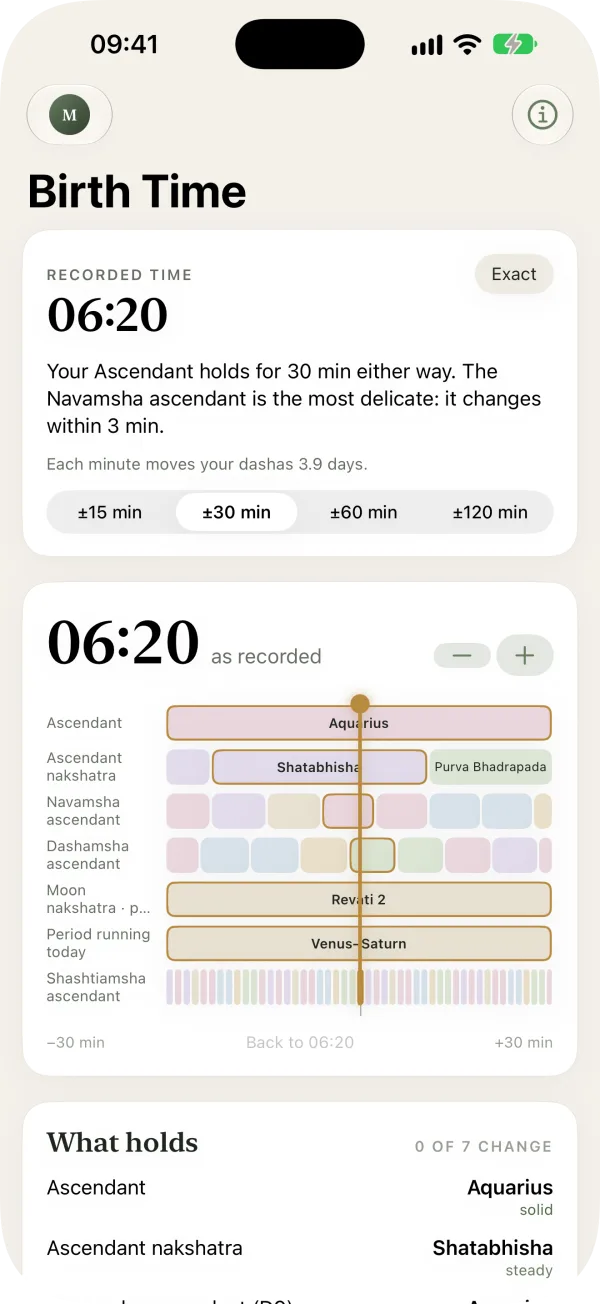
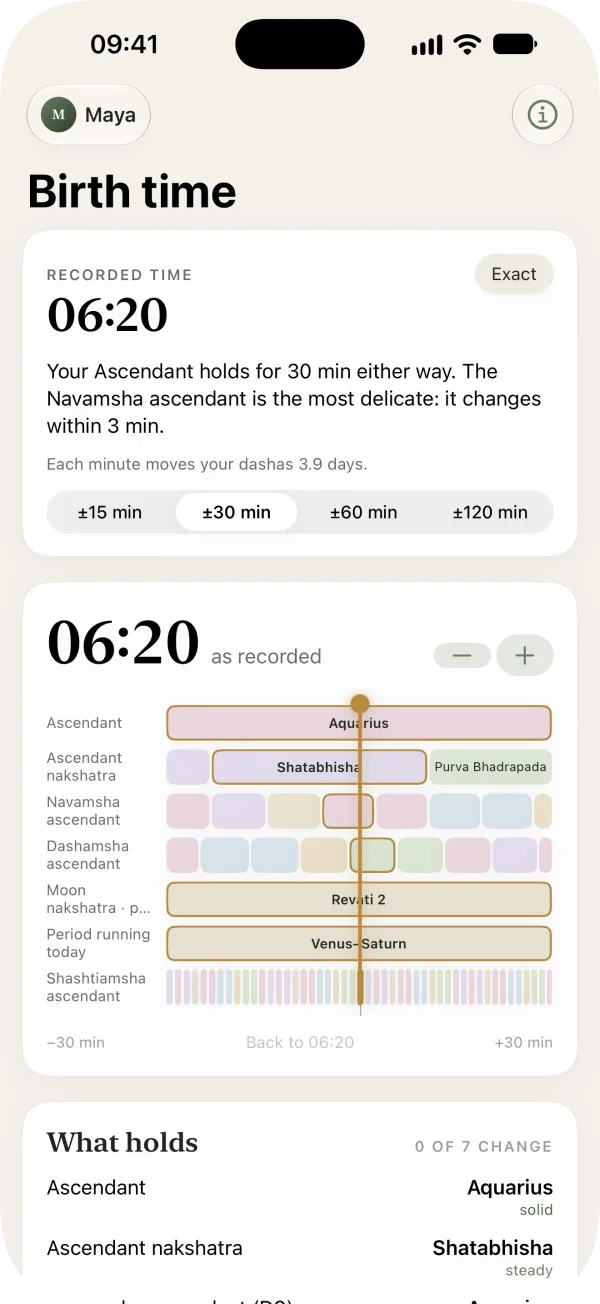
Astral Journey: 3.3 names (Calendar, Chart, Strength, Compare charts) and fresh screenshots

Changed region(s): [[0.24, 0.1227, 0.42, 0.184], [0.06, 0.0613, 0.21, 0.1227], [0.81, 0.0, 0.9, 0.0613]]

diff --git a/astral/index.html b/astral/index.html
@@ -53,23 +53,23 @@
           <p>Today's traditional timings, Rahu Kaal, Abhijit and the planetary hours, worked out for wherever you are.</p>
         </div>
         <div class="card">
-          <div class="glyph" style="background:#3F523B">⟳</div>
-          <h3>Birth Time</h3>
-          <p>Unsure of your birth time? Move through nearby minutes and see how your chart changes.</p>
-        </div>
-        <div class="card">
           <div class="glyph" style="background:#7B5BB5">☊&#xFE0E;</div>
-          <h3>Sky Alerts</h3>
-          <p>Reminders before the transits, eclipses and dasha changes that involve your chart.</p>
+          <h3>Calendar</h3>
+          <p>A year of sunrises scored for you, and reminders before the transits, eclipses and dasha changes that involve your chart.</p>
         </div>
         <div class="card">
           <div class="glyph" style="background:#B8890F">♃&#xFE0E;</div>
-          <h3>Blueprint</h3>
-          <p>Classical strength scores for every planet and house (Shadbala and Bhava Bala), with the reasons behind each.</p>
+          <h3>Chart</h3>
+          <p>Your kundli at a glance and all sixteen divisional charts. Strength gives every planet and house its classical score (Shadbala and Bhava Bala), with the reasons.</p>
+        </div>
+        <div class="card">
+          <div class="glyph" style="background:#3F523B">⟳</div>
+          <h3>Birth time</h3>
+          <p>Unsure of your birth time? Move through nearby minutes and see how your chart changes.</p>
         </div>
         <div class="card">
           <div class="glyph" style="background:#D4659A">♀&#xFE0E;</div>
-          <h3>Bonds</h3>
+          <h3>Compare charts</h3>
           <p>Guna Milan, the traditional 36-point compatibility score. A score is not a verdict on a relationship.</p>
         </div>
         <div class="card">
@@ -87,12 +87,13 @@
       </div>
       <div class="gallery">
         <figure><img src="assets/today.webp" alt="Today: the day's verdict and the planetary hours" loading="lazy"><figcaption>Today</figcaption></figure>
+        <figure><img src="assets/chart.webp" alt="Chart: the kundli at a glance" loading="lazy"><figcaption>Chart</figcaption></figure>
         <figure><img src="assets/charts.webp" alt="The birth chart in the North Indian style" loading="lazy"><figcaption>Charts</figcaption></figure>
-        <figure><img src="assets/blueprint.webp" alt="Blueprint: planet strength" loading="lazy"><figcaption>Blueprint</figcaption></figure>
+        <figure><img src="assets/blueprint.webp" alt="Strength: every planet against its need" loading="lazy"><figcaption>Strength</figcaption></figure>
         <figure><img src="assets/alerts.webp" alt="Sky Alerts: the year ahead" loading="lazy"><figcaption>Sky Alerts</figcaption></figure>
-        <figure><img src="assets/birthTime.webp" alt="Birth Time: what changes minute by minute" loading="lazy"><figcaption>Birth Time</figcaption></figure>
+        <figure><img src="assets/birthTime.webp" alt="Birth time: what changes minute by minute" loading="lazy"><figcaption>Birth time</figcaption></figure>
         <figure><img src="assets/dashas.webp" alt="Dashas: the chapters of a life" loading="lazy"><figcaption>Dashas</figcaption></figure>
-        <figure><img src="assets/synastry.webp" alt="Synastry: two charts together" loading="lazy"><figcaption>Bonds</figcaption></figure>
+        <figure><img src="assets/synastry.webp" alt="Compare charts: two charts together" loading="lazy"><figcaption>Compare charts</figcaption></figure>
         <figure><img src="assets/journal.webp" alt="Journal: moods and the sky" loading="lazy"><figcaption>Journal</figcaption></figure>
       </div>
       <p class="quiet">Screens show a sample chart.</p>

diff --git a/astral/support/index.html b/astral/support/index.html
@@ -24,7 +24,7 @@
       <div class="card"><h3>Does it need the internet?</h3><p>No. Only searching for a birthplace uses Apple Maps, and 34,000 places work without a connection too.</p></div>
       <div class="card"><h3>Why are Today&#x27;s times for a different city?</h3><p>Today follows where you are, not where you were born: sunrise, Rahu Kaal and the hours belong to your sky now. Tap the place under Today to choose one by hand.</p></div>
       <div class="card"><h3>Which zodiac does it use?</h3><p>Sidereal, with Lahiri by default. Krishnamurti, Raman, Fagan-Bradley, Yukteshwar and the tropical zodiac are in Settings.</p></div>
-      <div class="card"><h3>I&#x27;m not sure of my birth time.</h3><p>Open Birth Time: it shows how your chart changes as the minutes move, and lets you settle on a time.</p></div>
+      <div class="card"><h3>I&#x27;m not sure of my birth time.</h3><p>Open Chart, then Birth time sensitivity: it shows how your chart changes as the minutes move, and lets you settle on a time.</p></div>
       <div class="card"><h3>Which birth dates work?</h3><p>From 1900 in the app. The engine covers 1850 to 2049.</p></div>
       <div class="card"><h3>My chart differs slightly from another app.</h3><p>Usually the ayanamsa or the lunar nodes. The ayanamsa is in Settings; mean or true nodes are under Advanced when you add or edit someone. Apps also define sunrise differently: we use the moment the Sun&#x27;s upper edge meets the horizon.</p></div>
       <div class="card"><h3>How do I delete my data?</h3><p>Delete a person under People. Deleting the app removes everything. You can export all your data from Settings first.</p></div>
